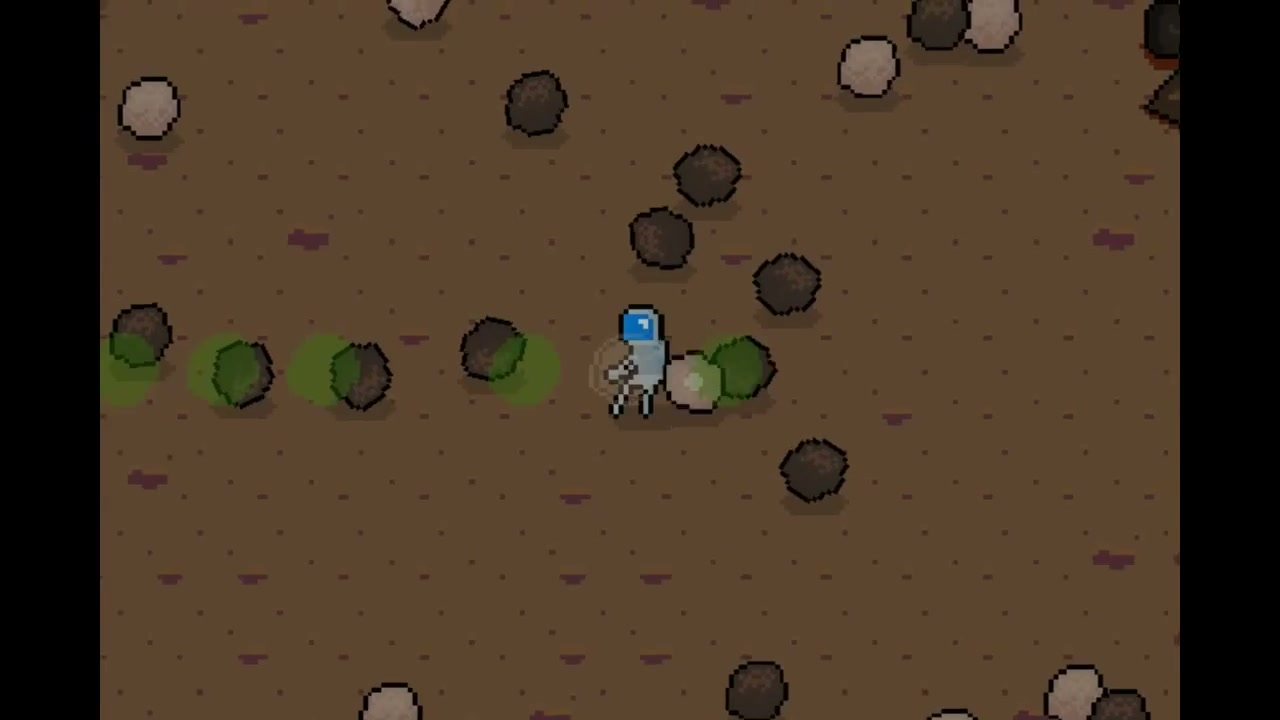
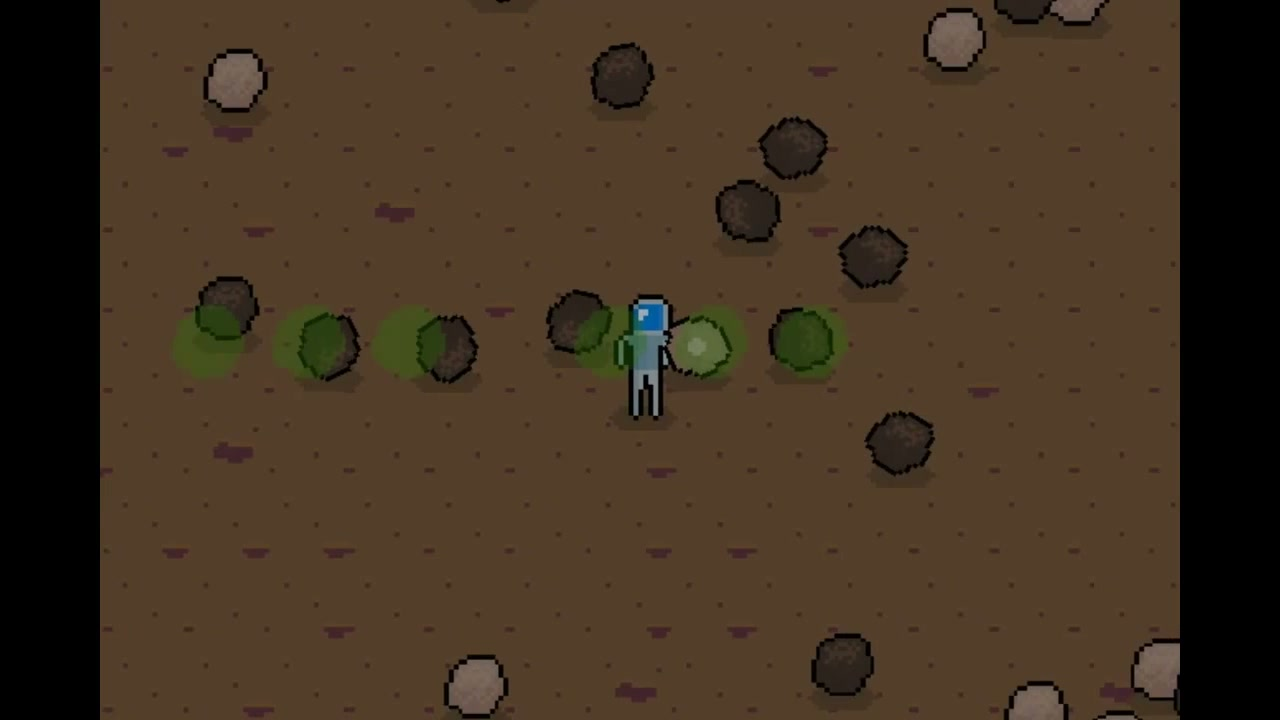
Rockmorse: clearer pushing frame; Lego: varied electronics photos; Text Wallpaper: mobile-only gallery + desktop/mobile description; wrapping gallery grid

diff --git a/static/css/style.css b/static/css/style.css
@@ -127,13 +127,12 @@ video {
   display: block;
 }
 
-/* Horizontal, scrollable strip of uniform thumbnails. */
+/* Wrapping row of thumbnails: images flow onto the next line instead of
+   hiding behind a horizontal scroll. */
 .gallery {
   display: flex;
-  flex-wrap: nowrap;
-  overflow-x: auto;
+  flex-wrap: wrap;
   gap: 8px;
-  padding-bottom: 6px;
   margin-bottom: 1rem;
 }
 

diff --git a/content/projects.md b/content/projects.md
@@ -43,7 +43,7 @@ Live: [linkedfin.net](https://linkedfin.net) · Source: [github.com/eralpkaradum
 
 ## [Text Wallpaper](https://textwallpaper.com)
 
-Turns any text into a simple phone wallpaper, right in the browser.
+Turns any text into a simple wallpaper, right in the browser, on desktop and mobile. Pick the colors and size, then save the image. There is a native iOS app too.
 
 Tech: JavaScript SPA, iOS (Cordova/WebView), AdMob
 
@@ -51,9 +51,7 @@ Around 3,000 monthly active users.
 
 ![The Text Wallpaper editor in action](/images/projects/textwallpaper/intro.gif)
 
-![A yellow-on-black text wallpaper on a phone](/images/projects/textwallpaper/mobile-04-yellow-on-black.png)
-
-{{< gallery images="/images/projects/textwallpaper/flow-01-intro.png,/images/projects/textwallpaper/flow-03-text-entered.png,/images/projects/textwallpaper/flow-04-background-color-picker.png,/images/projects/textwallpaper/flow-08-text-size-control.png,/images/projects/textwallpaper/flow-13-download-popup.png" alts="Open the editor,Type any text,Pick a background color,Adjust text size,Save the wallpaper" >}}
+{{< gallery images="/images/projects/textwallpaper/m-yellow-black.png,/images/projects/textwallpaper/m-red.png,/images/projects/textwallpaper/m-navy-light.png,/images/projects/textwallpaper/m-white-gray.png" alts="A text wallpaper on a phone, yellow on black,A text wallpaper on a phone, dark gray on red,A text wallpaper on a phone, navy on off-white,The editor on a phone, white on dark gray" >}}
 
 Live: [textwallpaper.com](https://textwallpaper.com) · Source: [github.com/eralpkaraduman/text-wallpaper-generator](https://github.com/eralpkaraduman/text-wallpaper-generator)
 
@@ -63,7 +61,7 @@ A LEGO Retro Radio set turned into a working internet radio. I gutted its fake s
 
 Tech: Rust, Raspberry Pi, embedded Linux
 
-{{< gallery images="/images/projects/legoradio/hero.jpg,/images/projects/legoradio/knob.jpg,/images/projects/legoradio/guts.jpg" alts="The finished LEGO internet radio,A hand turning the LEGO tuning dial,Inside: a Raspberry Pi, amp, and speaker in the LEGO shell" >}}
+{{< gallery images="/images/projects/legoradio/front.jpg,/images/projects/legoradio/assembly.jpg,/images/projects/legoradio/electronics.jpg" alts="The finished LEGO internet radio,Inside the shell: a Raspberry Pi, audio amp SHIM, and speaker wired in,The electronics on the bench: a Raspberry Pi with an audio amp SHIM driving a speaker" >}}
 
 {{< youtube Mg7KIuxUpBU >}}
 